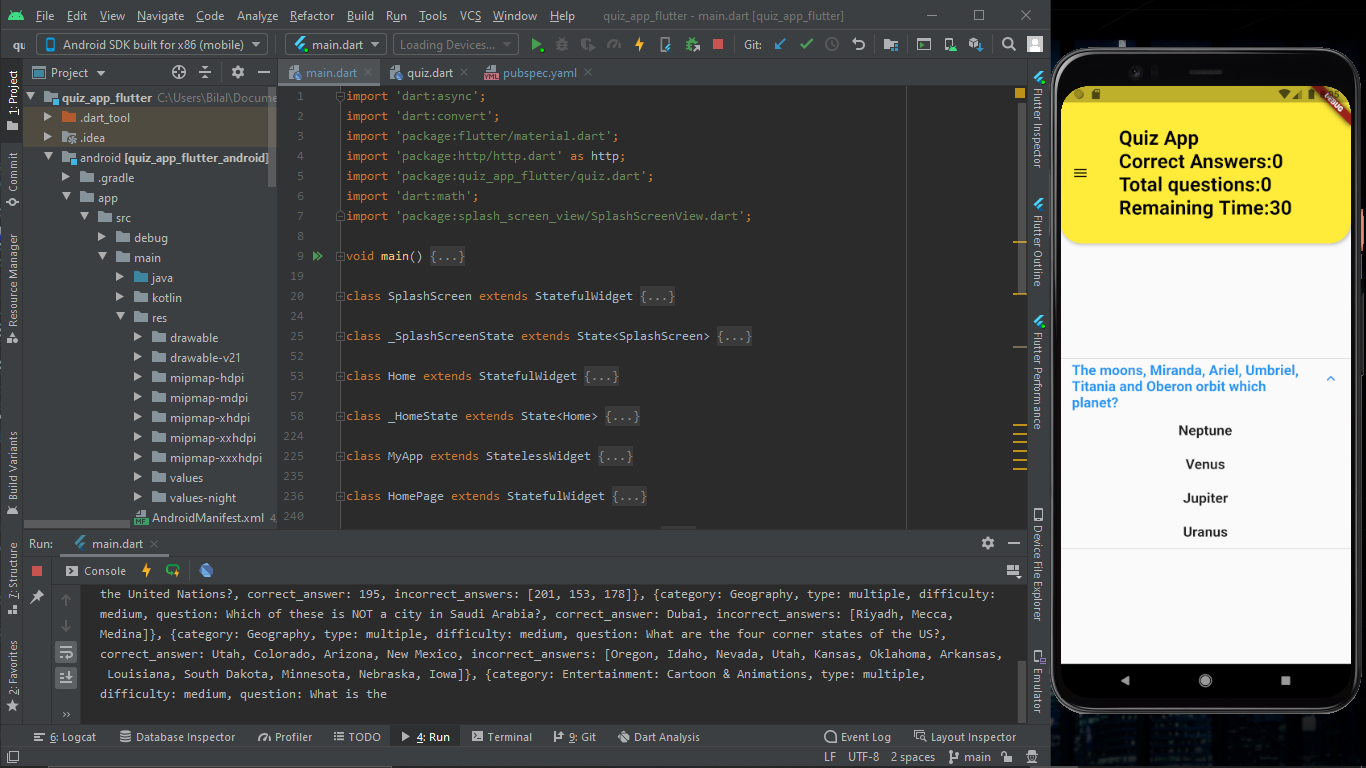
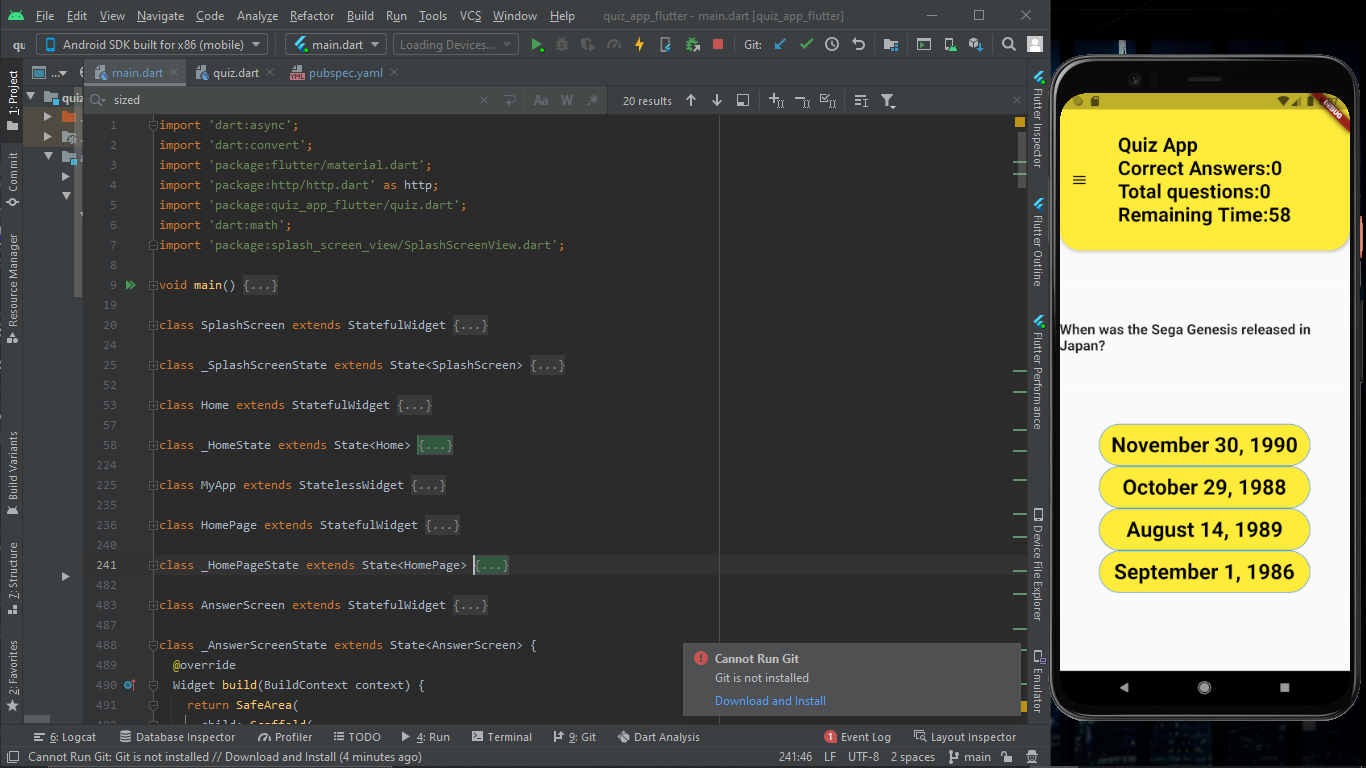
Quiz App Flutter

diff --git a/quiz_app_flutter/lib/main.dart b/quiz_app_flutter/lib/main.dart
@@ -267,7 +267,7 @@ class _HomePageState extends State<HomePage> {
         centerTitle: true,
         toolbarHeight: 200.0,
         title: Text(
-          'Quiz App\nCorrect Answers:$correct\nTotal questions:$index\nRemaining Time:$showtimer',
+          'Quiz App\nCorrect Answers:$correct\nTotal questions:$index\nRemaining Time:$timer',
           style: TextStyle(
             color: Colors.black,
             fontSize: 28.0,
@@ -397,56 +397,86 @@ class _HomePageState extends State<HomePage> {
     );
   }
 
-  Column questionList() {
+  Expanded questionList() {
     ca = results[index].correctAnswer;
-    return Column(
-        crossAxisAlignment: CrossAxisAlignment.stretch,
-        mainAxisAlignment: MainAxisAlignment.center,
-        children: <Widget>[
-          ExpansionTile(
-            title: Text(
+    return Expanded(
+      child: Column(
+          crossAxisAlignment: CrossAxisAlignment.stretch,
+          children: <Widget>[
+            SizedBox(
+              width: 20.0,
+              height: 100.0,
+              child: Divider(
+                color: Colors.white,
+              ),
+            ),
+            Text(
               results[index].question,
               style: TextStyle(
                 fontWeight: FontWeight.bold,
                 fontSize: 20.0,
               ),
             ),
-            children: results[index].allAnswers.map((m) {
-              return FlatButton(
-                  onPressed: () {
-                    if (m == ca && index < 9) {
-                      setState(() {
-                        index = index + 1;
-                        correct = correct + 1;
-                      });
-                    } else if (m != ca && index < 9) {
-                      setState(() {
-                        questions[index] = results[index].question;
-                        correctAnswer[index] = results[index].correctAnswer;
-                        difficulty[index] = '$m';
-                        index = index + 1;
-                      });
-                    } else if (index == 9) {
-                      setState(() {
-                        Navigator.push(
-                          context,
-                          new MaterialPageRoute(
-                            builder: (context) => new AnswerScreen(),
+            SizedBox(
+              width: 20.0,
+              height: 100.0,
+              child: Divider(
+                color: Colors.white,
+              ),
+            ),
+            Column(
+              children: results[index].allAnswers.map((m) {
+                return Column(
+                    mainAxisAlignment: MainAxisAlignment.center,
+                    children: <Widget>[
+                      FlatButton(
+                          shape: RoundedRectangleBorder(
+                            borderRadius: BorderRadius.circular(60.0),
+                            side: BorderSide(
+                              color: Colors.blue,
+                            ),
                           ),
-                        );
-                      });
-                    }
-                  },
-                  child: Text(
-                    m,
-                    style: TextStyle(
-                      fontWeight: FontWeight.bold,
-                      fontSize: 20.0,
-                    ),
-                  ));
-            }).toList(),
-          ),
-        ]);
+                          onPressed: () {
+                            if (m == ca && index < 9) {
+                              setState(() {
+                                index = index + 1;
+                                correct = correct + 1;
+                              });
+                            } else if (m != ca && index < 9) {
+                              setState(() {
+                                questions[index] = results[index].question;
+                                correctAnswer[index] =
+                                    results[index].correctAnswer;
+                                difficulty[index] = '$m';
+                                index = index + 1;
+                              });
+                            } else if (index == 9) {
+                              setState(() {
+                                Navigator.push(
+                                  context,
+                                  new MaterialPageRoute(
+                                    builder: (context) => new AnswerScreen(),
+                                  ),
+                                );
+                              });
+                            }
+                          },
+                          minWidth: 300,
+                          color: Colors.yellow,
+                          height: 60.0,
+                          textColor: Colors.black,
+                          child: Text(
+                            m,
+                            style: TextStyle(
+                              fontWeight: FontWeight.bold,
+                              fontSize: 30.0,
+                            ),
+                          )),
+                    ]);
+              }).toList(),
+            )
+          ]),
+    );
   }
 }
 
@@ -967,9 +997,9 @@ class contactus extends StatelessWidget {
   }
 }
 
-String showtimer = '30';
+String showtimer = '28';
 bool canceltimer = false;
-int timer = 30;
+int timer = 28;
 String ca;
 String select;
 int index = 0;
